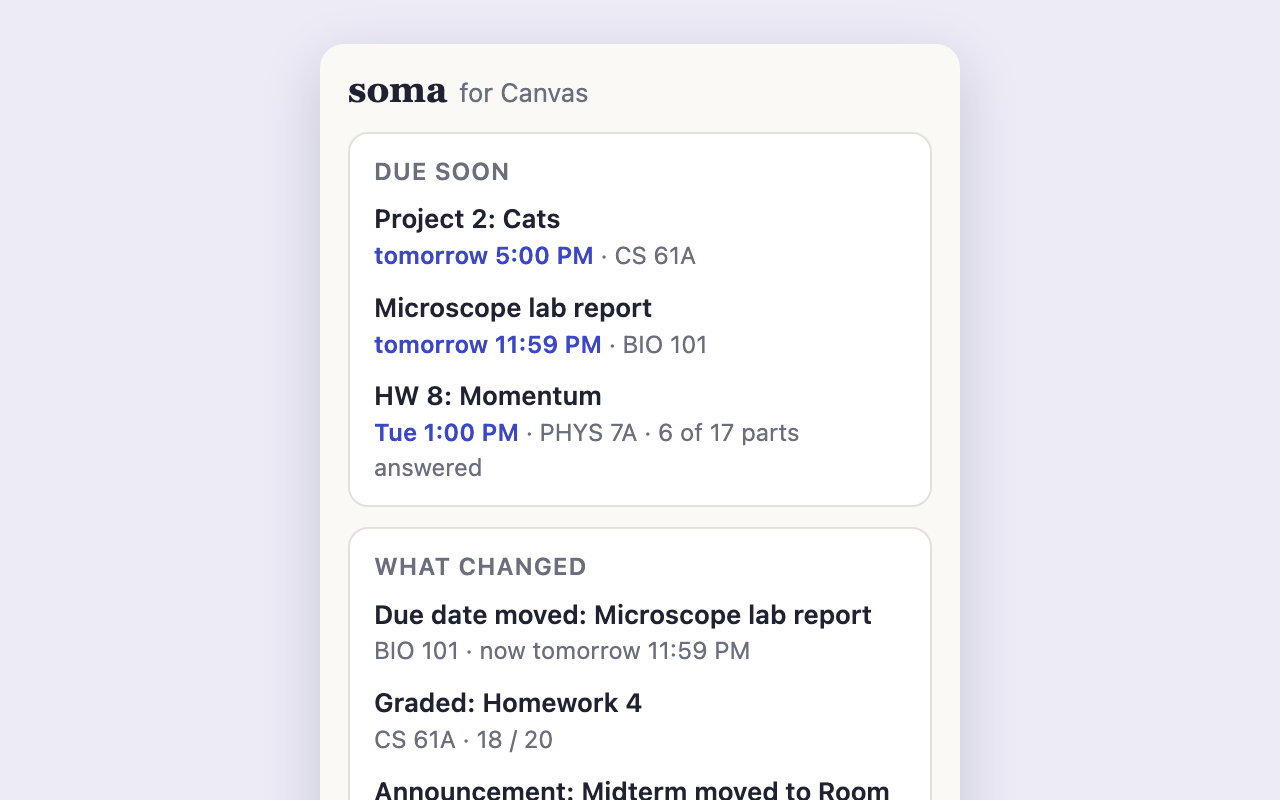
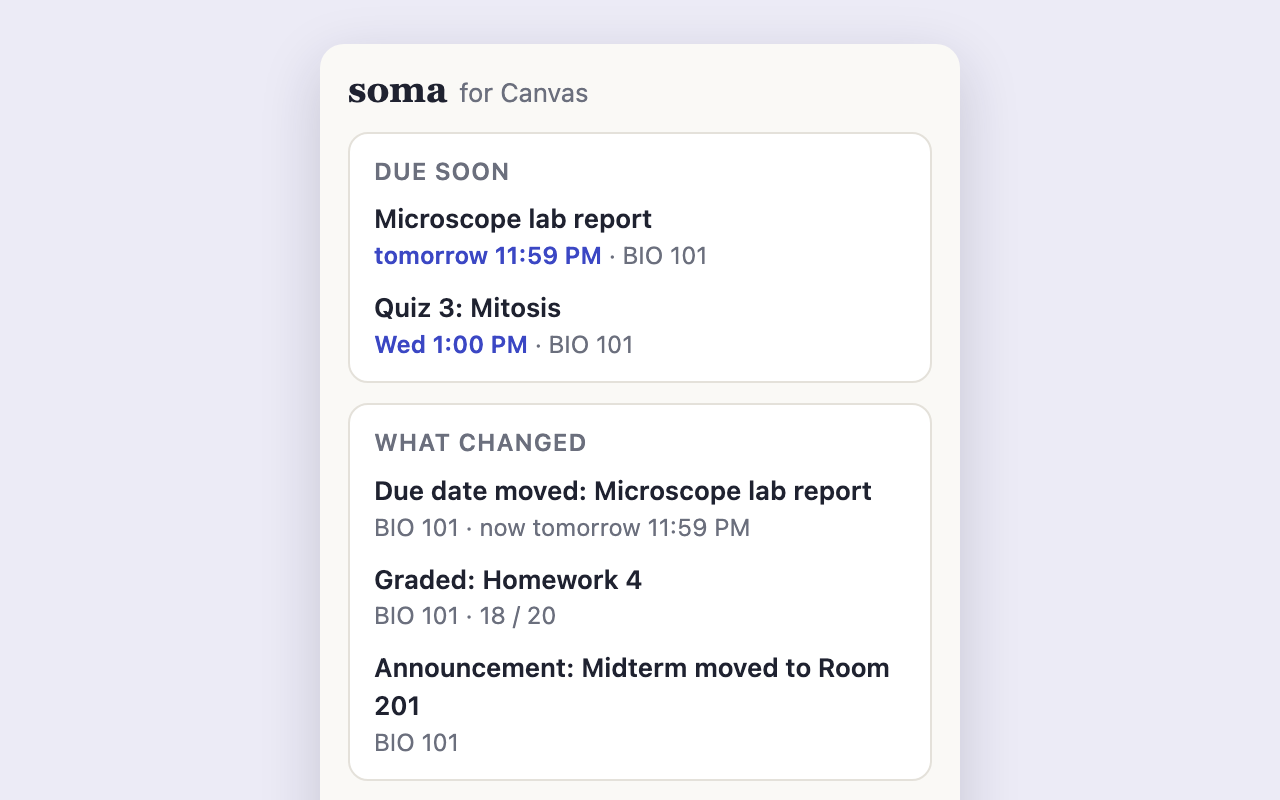
Make the Chrome Web Store build read Canvas only
Cengage's terms (WebAssign) bar scripts, scrapers and data mining, and
Gradescope's bar scraping and access other than through their interface. The
store build now leaves both out: no permissions, content scripts, reader files
or popup text for them, and the build fails if any trace is left. The listing,
permission justifications and screenshots describe Canvas only.

The source keeps the readers: `npm run build:extension -- --all` builds all
three sites, for loading unpacked.

diff --git a/tests/store-screenshots.spec.ts b/tests/store-screenshots.spec.ts
@@ -26,24 +26,14 @@ const snapshots = () => ({
     kind: 'canvas', host: 'school.instructure.com', syncedAt: at(-0.2),
     courses: [{ id: 1, name: 'BIO 101: Cell Biology - Fall 2026', courseCode: 'BIO 101' }],
     assignments: [
+      { id: 11, courseId: 1, name: 'Quiz 3: Mitosis', dueAt: dueOn(2, 13, 0), htmlUrl: 'https://school.instructure.com/a/11', workflowState: 'unsubmitted', pointsPossible: 20 },
       { id: 10, courseId: 1, name: 'Microscope lab report', dueAt: dueOn(1, 23, 59), htmlUrl: 'https://school.instructure.com/a/10', workflowState: 'unsubmitted', submissionTypes: ['online_upload'] },
     ],
     changes: [
+      { at: at(-3), site: 'canvas', type: 'graded', name: 'Homework 4', course: 'BIO 101', url: '', score: 18, maxScore: 20 },
       { at: at(-1), site: 'canvas', type: 'due_moved', name: 'Microscope lab report', course: 'BIO 101', url: '', from: dueOn(0, 23, 59), to: dueOn(1, 23, 59) },
       { at: at(-6), site: 'canvas', type: 'announcement', name: 'Midterm moved to Room 201', course: 'BIO 101', url: '' },
     ],
-  },
-  'www.gradescope.com': {
-    kind: 'gradescope', host: 'www.gradescope.com', syncedAt: at(-0.2),
-    courses: [{ id: 2, shortName: 'CS 61A', name: 'CS 61A: Structure and Interpretation' }],
-    assignments: [{ id: 20, courseId: 2, name: 'Project 2: Cats', dueAt: dueOn(1, 17, 0), htmlUrl: 'https://www.gradescope.com/x', status: 'not_submitted' }],
-    changes: [{ at: at(-3), site: 'gradescope', type: 'graded', name: 'Homework 4', course: 'CS 61A', url: '', score: 18, maxScore: 20 }],
-  },
-  'www.webassign.net': {
-    kind: 'webassign', host: 'www.webassign.net', syncedAt: at(-0.2),
-    courses: [{ id: 3, name: 'PHYS 7A, Fall 2026' }],
-    assignments: [{ id: 30, courseId: 3, name: 'HW 8: Momentum', dueAt: dueOn(2, 13, 0), htmlUrl: 'https://www.webassign.net/y', status: 'in_progress', parts: 17, answered: 6 }],
-    changes: [],
   },
 });
 
@@ -67,7 +57,7 @@ async function popupShot(page: Page) {
     };
   }, { snapshots: snapshots(), status: status(), settings: {} });
   await page.goto('https://extension.test/popup.html');
-  await expect(page.getByText('Project 2: Cats')).toBeVisible();
+  await expect(page.getByText('Quiz 3: Mitosis')).toBeVisible();
   // The popup is 320px wide: shown at 2× on a quiet backdrop, as it looks over a page.
   await page.addStyleTag({ content: `
     html { background: #ecebf6; min-height: 100%; }
@@ -101,6 +91,7 @@ test('store screenshot: Soma Deadlines with synced work', async ({ page }) => {
   await page.route('**/api/stripe', r => r.fulfill({ json: { status: 'active' } }));
   await page.route('**/api/canvas-ical', r => r.fulfill({ json: { assignments: [
     { id: 10, name: 'Microscope lab report', courseId: 1, courseName: 'BIO 101: Cell Biology - Fall 2026', dueAt: dueOn(1, 23, 59), htmlUrl: 'https://school.instructure.com/a/10', status: 'not_started' },
+    { id: 11, name: 'Quiz 3: Mitosis', courseId: 1, courseName: 'BIO 101: Cell Biology - Fall 2026', dueAt: dueOn(2, 13, 0), htmlUrl: 'https://school.instructure.com/a/11', status: 'not_started' },
   ] } }));
   await page.goto('/deadlines');
   await expect(page.getByText('Microscope lab report').first()).toBeVisible();
@@ -108,6 +99,6 @@ test('store screenshot: Soma Deadlines with synced work', async ({ page }) => {
     await page.evaluate(snap => window.postMessage({ source: 'soma-extension', type: 'canvas_snapshot', snapshot: { v: 1, ...snap } }, window.location.origin), s);
   }
   await expect(page.getByRole('region', { name: 'What changed' })).toBeVisible();
-  await expect(page.getByText('HW 8: Momentum')).toBeVisible();
+  await expect(page.getByText('Quiz 3: Mitosis').first()).toBeVisible();
   await page.screenshot({ path: path.join(out, 'screenshot-2-deadlines.png') });
 });

diff --git a/extension/STORE_LISTING.md b/extension/STORE_LISTING.md
@@ -12,9 +12,12 @@ Screenshots are in `extension/store/` (regenerate with
       nothing.
 - [x] Icons in `extension/icons/` (16, 32, 48, 128 px) are Soma's logo, scaled
       from `public/favicon.png`.
-- [ ] Terms check: some schools' acceptable-use policies, and Gradescope's and
-      Cengage's (WebAssign) terms, restrict automated access. Have this
-      looked at before publishing.
+- [x] Terms check, done for the first release by leaving Gradescope and
+      WebAssign out: Cengage's terms bar scripts and scrapers (item 9) and
+      data mining (item 10), and Gradescope's bar scraping and access by
+      means other than those provided. The store build (`npm run build:extension`)
+      is Canvas-only; `-- --all` builds all three for loading unpacked. Still
+      to check: Instructure's terms and schools' own acceptable-use policies.
 - [ ] Decide the publisher account. The developer name is shown on the
       listing, so a Soma account is better than a personal one.
 - [ ] Bump `version` in `manifest.json` for every upload after the first.
@@ -26,8 +29,8 @@ Screenshots are in `extension/store/` (regenerate with
 **Name**
 Soma for Canvas
 
-**Summary** (132 characters max; this is the manifest description, 118)
-Keeps Soma up to date with your Canvas, Gradescope and WebAssign work: what's due, what's handed in, and what changed.
+**Summary** (132 characters max; the store build's manifest description, 92)
+Keeps Soma up to date with your Canvas work: what's due, what's handed in, and what changed.
 
 **Category**
 Education
@@ -38,18 +41,17 @@ English
 **Description**
 
 ```
-Never lose track of what's due across Canvas, Gradescope and WebAssign.
+Never lose track of what's due in Canvas.
 
-Soma for Canvas keeps your Soma study planner in sync with the sites your
-classes actually use, so your deadlines, plan and AI study help reflect
-what's really assigned and what you've already handed in.
+Soma for Canvas keeps your Soma study planner in sync with your Canvas
+courses, so your deadlines, plan and AI study help reflect what's really
+assigned and what you've already handed in.
 
 WHAT IT DOES
-• Brings your assignments from Canvas, Gradescope and WebAssign into Soma,
-  with descriptions, points, and how much each part of your grade is worth.
-• Knows what you've handed in, even when you submit on Gradescope and
-  Canvas never finds out, so finished work drops off your list.
-• Shows WebAssign progress, like "6 of 17 parts answered".
+• Brings your Canvas assignments into Soma, with descriptions, points, and
+  how much each part of your grade is worth.
+• Knows what you've handed in, so finished work drops off your list.
+• Shows your grades and scores, course by course.
 • Reminds you before work is due: a notification a day before and three
   hours before anything you haven't handed in, and a count on the icon.
 • Tells you what changed: new assignments, moved due dates, grades posted
@@ -57,10 +59,9 @@ WHAT IT DOES
 • Stays current on its own while Chrome is open, and whenever you open Soma.
 
 PRIVATE BY DESIGN
-• It reads these sites in your own browser, with the sign-in you already
-  have. Your passwords, cookies and tokens never leave your browser.
+• It reads Canvas in your own browser, with the sign-in you already have. Your passwords, cookies and tokens never leave your browser.
 • It only reads. It never submits, changes or posts anything.
-• It only reads sites you've visited yourself, and only your own work:
+• It only reads Canvas sites you've visited yourself, and only your own work:
   never classmates' information.
 • Turn off grades, reminders or background syncing any time, and remove
   everything it synced from Soma's Settings in one click.
@@ -69,18 +70,15 @@ WORKS WITH
 • Canvas on instructure.com, and schools that run Canvas on their own
   address (for example canvas.yourschool.edu): turn it on for your school
   from the extension's menu.
-• Gradescope (gradescope.com)
-• WebAssign (webassign.net)
 
 You need a Soma account at somastudy.app.
 
-Soma is not affiliated with Instructure, Canvas, Gradescope, Turnitin,
-Cengage or WebAssign.
+Soma is not affiliated with Instructure or Canvas.
 ```
 
 **Screenshots** (1280×800)
 1. `extension/store/screenshot-1-popup.png`: Due soon and What changed in the popup
-2. `extension/store/screenshot-2-deadlines.png`: Soma's Deadlines with Canvas, Gradescope and WebAssign work together
+2. `extension/store/screenshot-2-deadlines.png`: Soma's Deadlines with synced Canvas work
 
 **Small promo tile** (440×280): optional; not made yet.
 
@@ -97,8 +95,8 @@ https://somastudy.app/contact
 **Single purpose**
 
 ```
-Sync the signed-in student's own coursework from Canvas, Gradescope and
-WebAssign into their Soma study planner, and remind them before it is due.
+Sync the signed-in student's own Canvas coursework into their Soma study
+planner, and remind them before it is due.
 ```
 
 **Permission justifications**
@@ -107,13 +105,11 @@ WebAssign into their Soma study planner, and remind them before it is due.
 |---|---|
 | `storage` | Keeps the student's most recent sync of each site (their courses and assignments), their settings, and which reminders were already shown, so Soma and the reminders work without reading the sites again. |
 | `alarms` | Re-syncs the sites the student has already synced every two hours while Chrome is open, and checks every 15 minutes whether anything has come within a day or three hours of being due, so reminders arrive on time. |
-| `offscreen` | Background syncs read Gradescope's and WebAssign's pages, which needs an HTML parser (DOMParser). Service workers don't have one, so the reading runs in an offscreen document with reason DOM_PARSER. Nothing is shown to the user. |
+| `offscreen` | Background syncs read Canvas pages, which needs an HTML parser (DOMParser). Service workers don't have one, so the reading runs in an offscreen document with reason DOM_PARSER. Nothing is shown to the user. |
 | `notifications` | Reminds the student before work they haven't handed in is due, and tells them when something changed (a new assignment, a moved due date, a grade posted, an announcement). Each type can be turned off in the popup. |
 | `scripting` | Starts the Canvas reader on a school's own Canvas domain (e.g. canvas.yourschool.edu) after the student grants access to that one site, and on tabs already open there, without a reload. |
 | `activeTab` | When the student opens the popup on a site that isn't recognised, it checks whether that tab is a Canvas site, so it can offer "Use Soma on this site". Nothing is read until the student agrees. |
 | Host: `https://*.instructure.com/*` | Canvas sites hosted by Instructure. The extension reads the student's own courses, assignments, submission status, grades and announcements from Canvas's API on that site, with the student's existing sign-in. Read-only. |
-| Host: `https://www.gradescope.com/*` | Reads the student's own Gradescope course list and assignment table (names, due dates, submitted or not, score). Read-only. |
-| Host: `https://www.webassign.net/*` | Reads the student's own WebAssign class page and assignment pages (names, due dates, how many question parts are answered). Read-only. |
 | Optional host: `https://*/*` | Many schools run Canvas on their own domain (canvas.emory.edu, bruinlearn.ucla.edu). Access is requested for one site at a time, only when the student clicks "Use Soma on this site" in the popup, and only for a page that is a Canvas site. It's never requested in bulk and never for anything else. |
 | Content script on `somastudy.app` | Hands the synced coursework to the student's open Soma tab with window.postMessage, where Soma saves it to their account. The extension itself never holds a Soma session or calls Soma's servers. |
 
@@ -124,8 +120,7 @@ fetched and run.)
 **Data usage**: what to tick
 
 - **Website content**: yes. Assignment names, descriptions, due dates,
-  points and course names from the student's own Canvas, Gradescope and
-  WebAssign pages.
+  points and course names from the student's own Canvas pages.
 - **Personal communications**: yes. Canvas course announcements (title and
   text) from the student's courses.
 - **Personally identifiable information**: yes. Grades and scores are
@@ -150,17 +145,16 @@ covers exactly the above).
 ## Notes for the reviewer (Distribution tab, or a reply if asked)
 
 ```
-Soma for Canvas reads a student's own coursework from Canvas, Gradescope and
-WebAssign while they are signed in to those sites in their own browser, and
-passes it to their open Soma tab (somastudy.app). It is read-only and only
-uses same-site requests to sites the user has visited.
+Soma for Canvas reads a student's own coursework from Canvas while they are
+signed in to it in their own browser, and passes it to their open Soma tab
+(somastudy.app). It is read-only and only uses same-site requests to Canvas
+sites the user has visited.
 
 To try it without a school account: create a free Canvas account at
 canvas.instructure.com (Canvas Free for Teacher), enroll in or create a
 course with an assignment, open it with the extension installed, then open
 the extension's menu: the assignment appears under "Due soon" and in the
-synced list. Gradescope and WebAssign behave the same way for any student
-account.
+synced list.
 
 The optional https://*/* permission is requested for one origin at a time,
 only from the "Use Soma on this site" button, for schools that host Canvas

diff --git a/docs/CHANGES.md b/docs/CHANGES.md
@@ -11,6 +11,25 @@ still needed.
 
 ## 2026-10-26
 
+### The store build of the extension reads Canvas only
+
+Cengage's terms (WebAssign) bar scripts, scrapers and data mining, and
+Gradescope's bar scraping and any access other than through their interface.
+So the Chrome Web Store build leaves both out: no Gradescope or WebAssign
+permissions, content scripts, reader files or words in the popup, and the
+listing text, permission justifications and screenshots describe Canvas only.
+The source keeps the readers: `npm run build:extension -- --all` builds all
+three, for loading unpacked. Soma itself still understands their snapshots.
+
+- Where: `extension/build-release.mjs` (store build drops them and fails if
+  any trace is left in the manifest, popup, offscreen page or worker);
+  `extension/STORE_LISTING.md`; `tests/store-screenshots.spec.ts` and the
+  screenshots in `extension/store/`.
+- Guard test: the build itself checks the zip; there is no Playwright test.
+- Setup: none. Still open before publishing: Instructure's terms and schools'
+  own policies. `public/privacy.html` still describes Gradescope and WebAssign
+  reading; it needs the owner's call before the extension goes public.
+
 ### The extension uses Soma's logo
 
 The extension's icons were placeholders (a blue ring). They are now Soma's

diff --git a/extension/README.md b/extension/README.md
@@ -102,3 +102,9 @@ reviewer and a checklist; screenshots are in `store/`.
   is signed in on the open Soma tab.
 - Very large courses are capped at 1,000 assignments per course (10 pages).
 - Turning grades off applies from the next sync.
+
+## Store build
+
+`npm run build:extension` builds the Chrome Web Store zip, which reads Canvas
+only (Gradescope and WebAssign restrict automated access in their terms).
+`npm run build:extension -- --all` builds all three sites, for loading unpacked.
